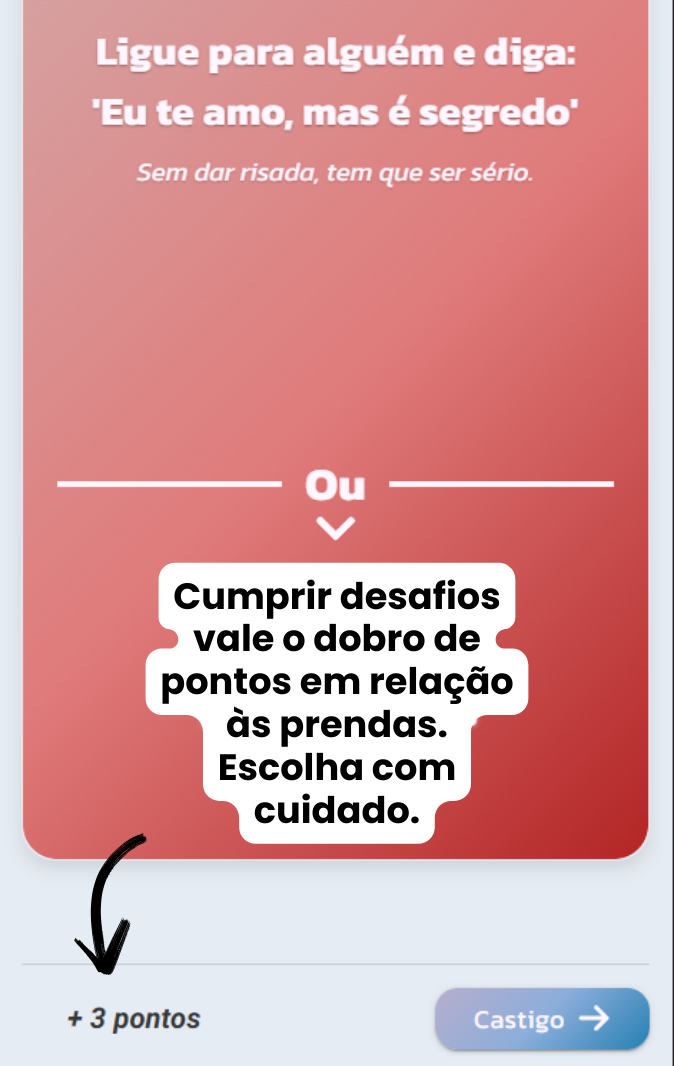
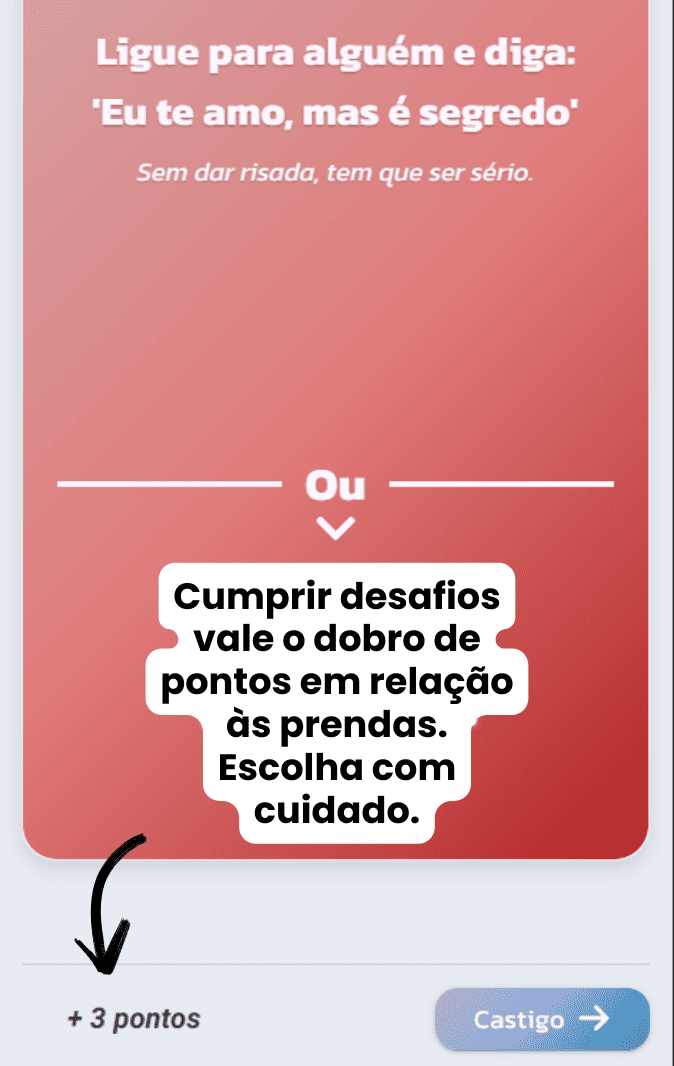
Made some updates

diff --git a/src/Pages/PlayerSelector/Components/PlayerSelectorButton/PlayerSelectorButton.tsx b/src/Pages/PlayerSelector/Components/PlayerSelectorButton/PlayerSelectorButton.tsx
@@ -13,7 +13,8 @@ const PlayerSelectorButton = ({ onClick }: PlayerSelectorButtonProps) => {
         width: "100%",
         left: 0,
         paddingX: "32px",
-        paddingY: "16px",
+        paddingTop: "16px",
+        paddingBottom: "48px",
         bottom: 0,
         background: "rgba(255, 255, 255, 0)",
         backdropFilter: "blur(10px)",

diff --git a/src/Pages/GamePage/GamePage.styles.ts b/src/Pages/GamePage/GamePage.styles.ts
@@ -6,7 +6,7 @@ export const getContainerStyle = () => ({
   flexDirection: "column",
   justifyContent: "space-between",
   placeItems: "center",
-  padding: "16px",
+  padding: "16px 16px 48px 16px",
 });
 
 export const getContentContainerStyle = () => ({

diff --git a/src/Pages/WinScreen/WinScreen.styles.ts b/src/Pages/WinScreen/WinScreen.styles.ts
@@ -13,6 +13,7 @@ export const getContainerStyle = (background: string) => ({
   backgroundRepeat: "no-repeat",
   backgroundPosition: "center",
   color: "#fff7ff",
+  paddingBottom: "48px",
 });
 
 export const getTitleStyle = () => ({

diff --git a/src/Pages/Home/Home.styles.ts b/src/Pages/Home/Home.styles.ts
@@ -21,6 +21,7 @@ export const getContainerStyle = () => ({
   display: "flex",
   flexDirection: "column",
   justifyContent: "space-between",
+  paddingBottom: "48px",
 });
 
 export const getButtonContainerStyle = () => ({

diff --git a/src/Pages/GamePage/Components/TutorialStepper/TutorialStepper.tsx b/src/Pages/GamePage/Components/TutorialStepper/TutorialStepper.tsx
@@ -42,7 +42,7 @@ const TutorialStepper = ({
   };
 
   return (
-    <Dialog open={open}>
+    <Dialog open={open} sx={{ paddingBottom: "48px" }}>
       <DialogContent
         sx={{
           p: 0,

diff --git a/src/Pages/DeckSelector/DeckSelector.styles.ts b/src/Pages/DeckSelector/DeckSelector.styles.ts
@@ -55,6 +55,7 @@ export const getFixedFooterStyle = () => ({
   width: "100%",
   left: 0,
   bottom: -1,
+  paddingBottom: "48px",
   "> div": {
     display: "flex",
     flexDirection: "column",
